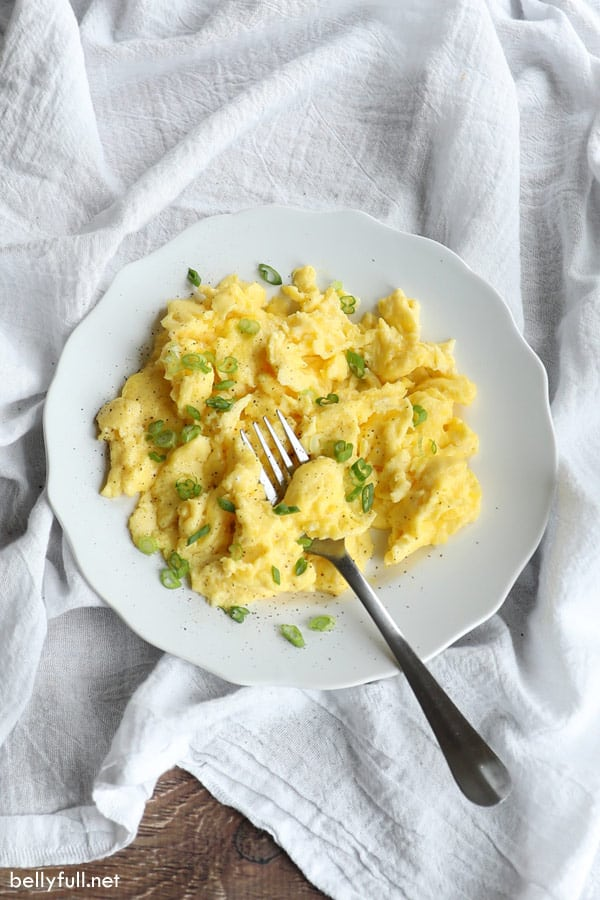
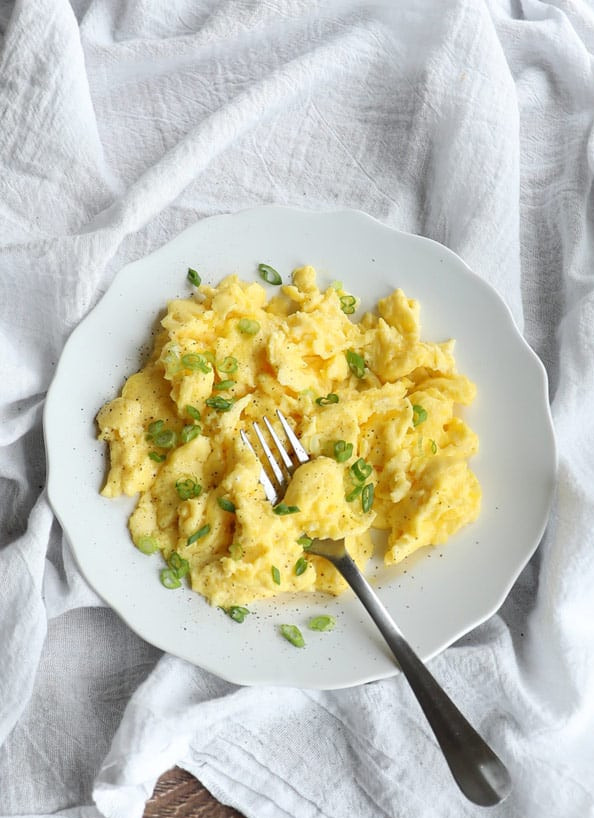
Resize eggs.jpg and add heading: 'Description' to scrambledeggs.html

diff --git a/recipes/scrambledeggs.html b/recipes/scrambledeggs.html
@@ -7,7 +7,11 @@
     <title>Scrambled eggs Recipe</title>
 </head>
 <body>
-    <h1>Scrambled eggs</h1>
+    <h1>Scrambled Eggs</h1>
+    <p></p>
+    <img src="../img/eggs.jpg" alt="eggs"/>
+    <h2>Description</h2>
+    
     
 </body>
 </html>
